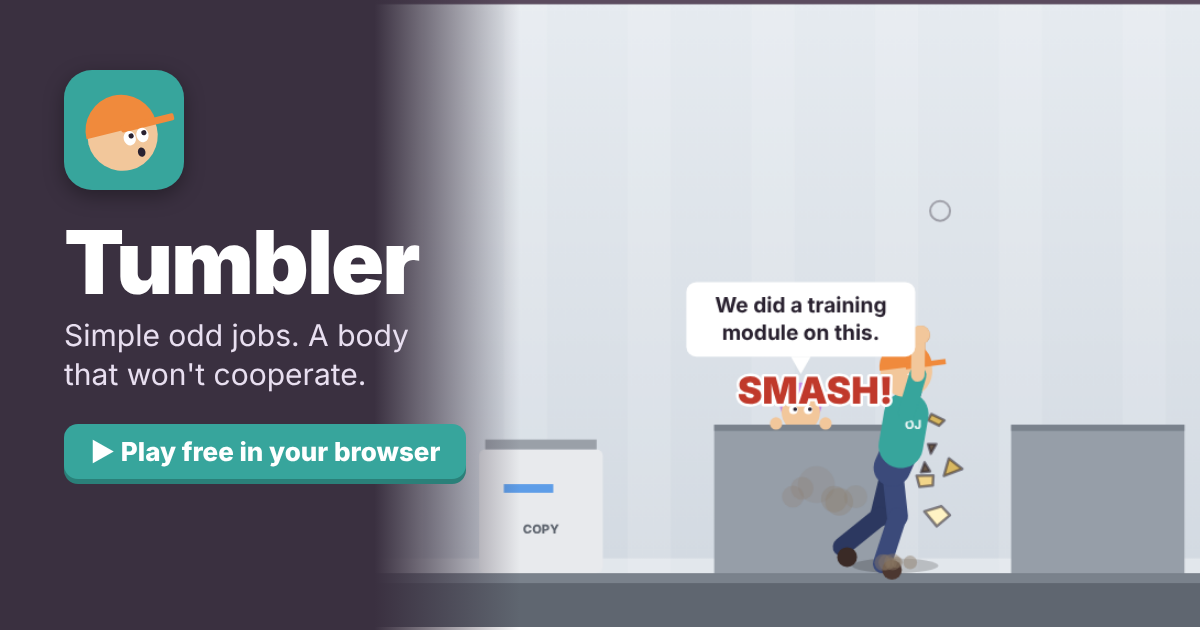
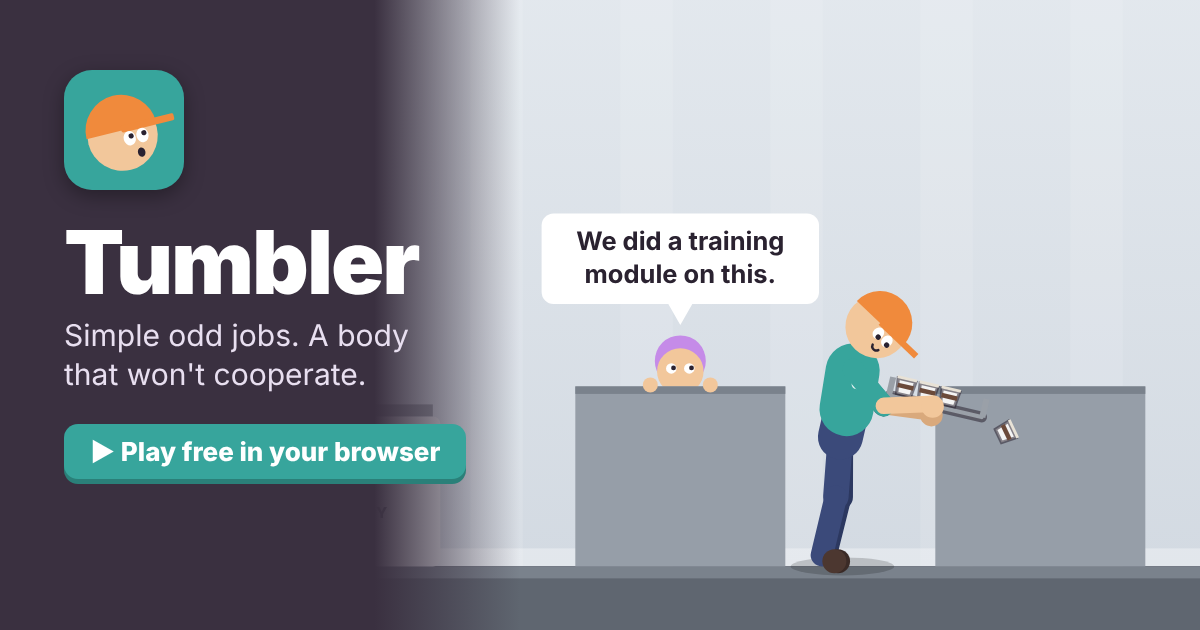
Link preview: a clearer shot (Stanley carrying the coffees, one sliding off, a coworker judging)
Claude-Session: https://claude.ai/code/session_017x3tDc6ABGVn91TDcaVGjh

diff --git a/index.html b/index.html
@@ -20,14 +20,14 @@
     <meta property="og:title" content="Tumbler" />
     <meta property="og:description" content="You're Stanley, the clumsiest temp at Odd Jobs Ltd. Simple odd jobs. A body that won't cooperate. Free, in your browser." />
     <meta property="og:url" content="https://setosa-versicolor.github.io/Tumbler/" />
-    <meta property="og:image" content="https://setosa-versicolor.github.io/Tumbler/og.png" />
+    <meta property="og:image" content="https://setosa-versicolor.github.io/Tumbler/og.png?v=2" />
     <meta property="og:image:width" content="1200" />
     <meta property="og:image:height" content="630" />
-    <meta property="og:image:alt" content="Stanley smashing a tray of coffees while a coworker says: We did a training module on this." />
+    <meta property="og:image:alt" content="Stanley wobbling along with a tray of coffees, one sliding off, while a coworker peeks over a cubicle wall: We did a training module on this." />
     <meta name="twitter:card" content="summary_large_image" />
     <meta name="twitter:title" content="Tumbler" />
     <meta name="twitter:description" content="You're Stanley, the clumsiest temp at Odd Jobs Ltd. Simple odd jobs. A body that won't cooperate. Free, in your browser." />
-    <meta name="twitter:image" content="https://setosa-versicolor.github.io/Tumbler/og.png" />
+    <meta name="twitter:image" content="https://setosa-versicolor.github.io/Tumbler/og.png?v=2" />
   </head>
   <body>
     <canvas id="game"></canvas>
